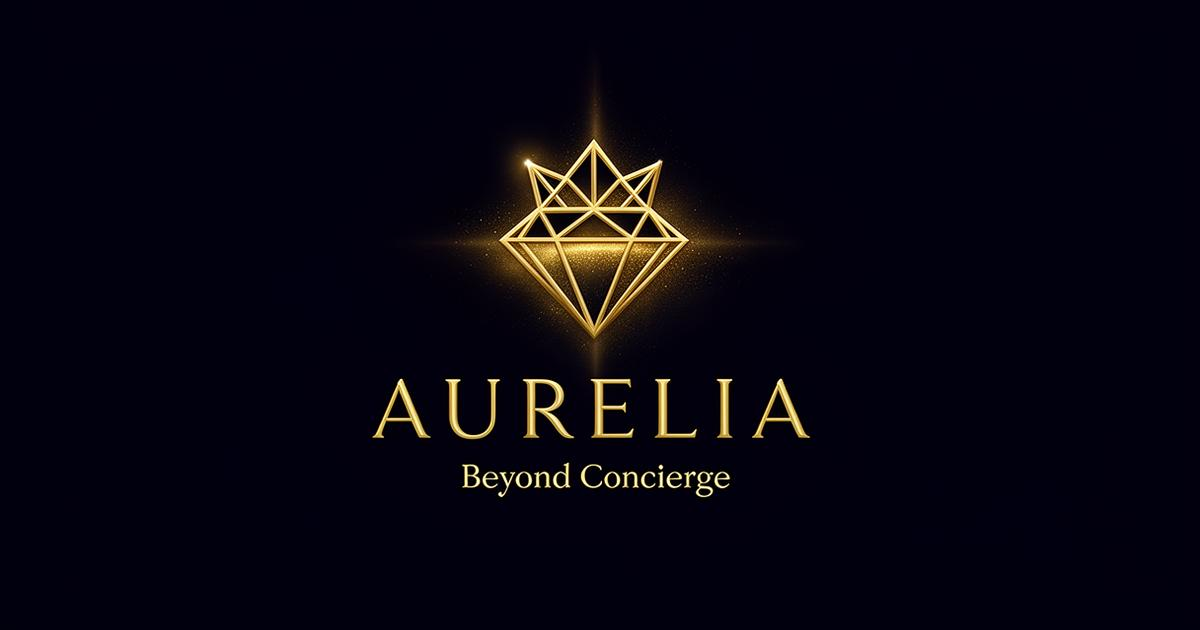
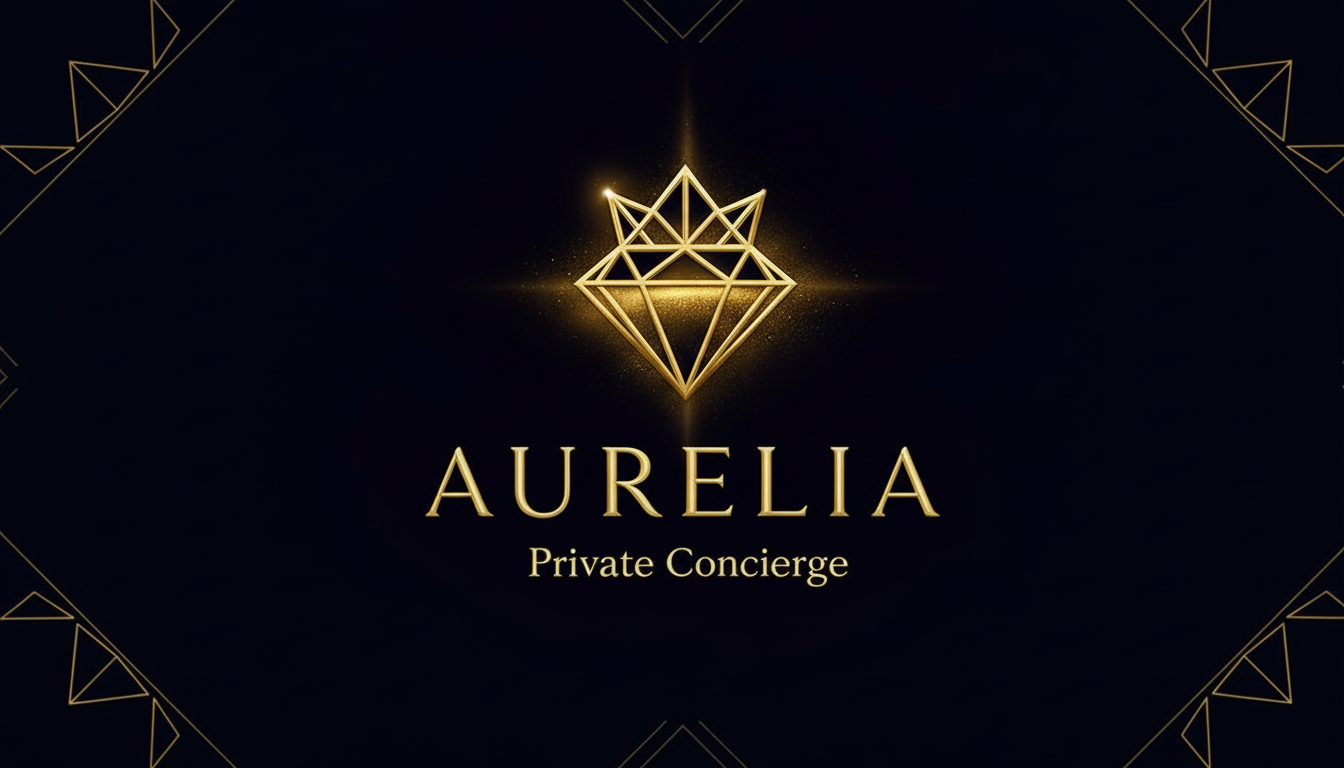
Changes

diff --git a/index.html b/index.html
@@ -3,31 +3,186 @@
   <head>
     <meta charset="UTF-8" />
     <meta name="viewport" content="width=device-width, initial-scale=1.0" />
-    <title>Aurelia | Sovereign Concierge</title>
-    <meta name="description" content="Experience the world's most exclusive concierge service. Engineered for sovereignty, curated for legacy, and powered by intelligent discretion." />
-    <meta name="author" content="Aurelia Holdings Ltd" />
+    
+    <!-- Primary Meta Tags -->
+    <title>Aurelia | Private Concierge for the Discerning Few</title>
+    <meta name="title" content="Aurelia | Private Concierge for the Discerning Few" />
+    <meta name="description" content="Aurelia is the world's most exclusive private concierge service. From private aviation and yacht charters to rare collectibles and bespoke experiences—curated for those who expect nothing less than extraordinary." />
+    <meta name="author" content="Aurelia Private Concierge" />
+    <meta name="keywords" content="private concierge, luxury concierge service, UHNW services, private aviation, yacht charter, luxury travel, bespoke experiences, exclusive access, high net worth, elite lifestyle management" />
+    <meta name="robots" content="index, follow" />
+    
+    <!-- Canonical URL -->
+    <link rel="canonical" href="https://www.aurelia-privateconciege.com" />
 
     <!-- Favicon -->
     <link rel="icon" href="/favicon.svg" type="image/svg+xml" />
-    <link rel="apple-touch-icon" href="/og-image.png" />
+    <link rel="icon" href="/favicon.ico" sizes="32x32" type="image/x-icon" />
+    <link rel="apple-touch-icon" href="/apple-touch-icon.png" />
 
-    <!-- Open Graph -->
-    <meta property="og:title" content="Aurelia | Sovereign Concierge" />
-    <meta property="og:description" content="Beyond Concierge. The world's most exclusive service. By invitation only." />
+    <!-- Open Graph / Facebook -->
     <meta property="og:type" content="website" />
-    <meta property="og:image" content="/og-image.png" />
+    <meta property="og:url" content="https://www.aurelia-privateconciege.com" />
+    <meta property="og:site_name" content="Aurelia Private Concierge" />
+    <meta property="og:title" content="Aurelia | Private Concierge for the Discerning Few" />
+    <meta property="og:description" content="The world's most exclusive private concierge service. Private aviation, yacht charters, rare collectibles, and bespoke experiences—curated for those who expect nothing less than extraordinary." />
+    <meta property="og:image" content="https://www.aurelia-privateconciege.com/og-image.png" />
     <meta property="og:image:width" content="1200" />
     <meta property="og:image:height" content="630" />
+    <meta property="og:image:alt" content="Aurelia Private Concierge - Curated Luxury Experiences" />
+    <meta property="og:locale" content="en_US" />
 
     <!-- Twitter Card -->
     <meta name="twitter:card" content="summary_large_image" />
-    <meta name="twitter:site" content="@Aurelia" />
-    <meta name="twitter:title" content="Aurelia | Sovereign Concierge" />
-    <meta name="twitter:description" content="Beyond Concierge. The world's most exclusive service. By invitation only." />
-    <meta name="twitter:image" content="/og-image.png" />
+    <meta name="twitter:url" content="https://www.aurelia-privateconciege.com" />
+    <meta name="twitter:title" content="Aurelia | Private Concierge for the Discerning Few" />
+    <meta name="twitter:description" content="The world's most exclusive private concierge service. Curated for those who expect nothing less than extraordinary." />
+    <meta name="twitter:image" content="https://www.aurelia-privateconciege.com/og-image.png" />
+    <meta name="twitter:image:alt" content="Aurelia Private Concierge - Curated Luxury Experiences" />
 
     <!-- Theme Color -->
     <meta name="theme-color" content="#050810" />
+    <meta name="msapplication-TileColor" content="#050810" />
+
+    <!-- Preconnect to external resources -->
+    <link rel="preconnect" href="https://fonts.googleapis.com" />
+    <link rel="preconnect" href="https://fonts.gstatic.com" crossorigin />
+
+    <!-- Structured Data - Organization -->
+    <script type="application/ld+json">
+    {
+      "@context": "https://schema.org",
+      "@type": "Organization",
+      "name": "Aurelia Private Concierge",
+      "alternateName": "Aurelia",
+      "url": "https://www.aurelia-privateconciege.com",
+      "logo": "https://www.aurelia-privateconciege.com/favicon.svg",
+      "description": "The world's most exclusive private concierge service, offering curated luxury experiences for ultra-high-net-worth individuals.",
+      "foundingDate": "2024",
+      "sameAs": [],
+      "contactPoint": {
+        "@type": "ContactPoint",
+        "contactType": "customer service",
+        "availableLanguage": ["English"]
+      },
+      "areaServed": {
+        "@type": "Place",
+        "name": "Worldwide"
+      }
+    }
+    </script>
+
+    <!-- Structured Data - Service -->
+    <script type="application/ld+json">
+    {
+      "@context": "https://schema.org",
+      "@type": "Service",
+      "serviceType": "Private Concierge Service",
+      "provider": {
+        "@type": "Organization",
+        "name": "Aurelia Private Concierge",
+        "url": "https://www.aurelia-privateconciege.com"
+      },
+      "name": "Aurelia Private Concierge Services",
+      "description": "Comprehensive luxury concierge services including private aviation, yacht charters, real estate, rare collectibles, exclusive event access, security, culinary experiences, bespoke travel, wellness, and personal shopping.",
+      "areaServed": "Worldwide",
+      "hasOfferCatalog": {
+        "@type": "OfferCatalog",
+        "name": "Luxury Concierge Services",
+        "itemListElement": [
+          {
+            "@type": "Offer",
+            "itemOffered": {
+              "@type": "Service",
+              "name": "Private Aviation",
+              "description": "Access to the world's finest fleet of private jets and helicopters with 24/7 availability"
+            }
+          },
+          {
+            "@type": "Offer",
+            "itemOffered": {
+              "@type": "Service",
+              "name": "Yacht Charters",
+              "description": "Curated selection of superyachts and sailing vessels worldwide"
+            }
+          },
+          {
+            "@type": "Offer",
+            "itemOffered": {
+              "@type": "Service",
+              "name": "Real Estate",
+              "description": "Off-market acquisitions and discreet sales of extraordinary properties"
+            }
+          },
+          {
+            "@type": "Offer",
+            "itemOffered": {
+              "@type": "Service",
+              "name": "Rare Collectibles",
+              "description": "Authentication, acquisition, and curation of fine art, timepieces, and rare wines"
+            }
+          },
+          {
+            "@type": "Offer",
+            "itemOffered": {
+              "@type": "Service",
+              "name": "Exclusive Access",
+              "description": "Invitations to the world's most coveted events and experiences"
+            }
+          }
+        ]
+      }
+    }
+    </script>
+
+    <!-- Structured Data - WebSite with SearchAction -->
+    <script type="application/ld+json">
+    {
+      "@context": "https://schema.org",
+      "@type": "WebSite",
+      "name": "Aurelia Private Concierge",
+      "url": "https://www.aurelia-privateconciege.com",
+      "description": "The world's most exclusive private concierge service",
+      "publisher": {
+        "@type": "Organization",
+        "name": "Aurelia Private Concierge"
+      }
+    }
+    </script>
+
+    <!-- Structured Data - FAQPage -->
+    <script type="application/ld+json">
+    {
+      "@context": "https://schema.org",
+      "@type": "FAQPage",
+      "mainEntity": [
+        {
+          "@type": "Question",
+          "name": "What is Aurelia Private Concierge?",
+          "acceptedAnswer": {
+            "@type": "Answer",
+            "text": "Aurelia is an exclusive private concierge service designed for ultra-high-net-worth individuals. We provide curated access to private aviation, yacht charters, rare collectibles, exclusive events, and bespoke experiences worldwide."
+          }
+        },
+        {
+          "@type": "Question",
+          "name": "How do I become a member of Aurelia?",
+          "acceptedAnswer": {
+            "@type": "Answer",
+            "text": "Membership to Aurelia is by invitation or application only. Prospective members can apply through our website, and our team will review each application to ensure alignment with our community of discerning individuals."
+          }
+        },
+        {
+          "@type": "Question",
+          "name": "What services does Aurelia offer?",
+          "acceptedAnswer": {
+            "@type": "Answer",
+            "text": "Aurelia offers comprehensive luxury services including private aviation, yacht charters, real estate acquisition, rare collectibles curation, exclusive event access, security and privacy services, culinary experiences, bespoke travel, wellness programs, and personal shopping."
+          }
+        }
+      ]
+    }
+    </script>
   </head>
 
   <body>
